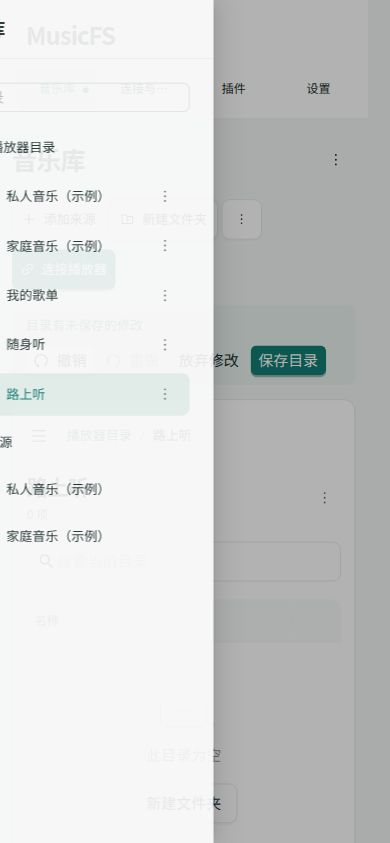
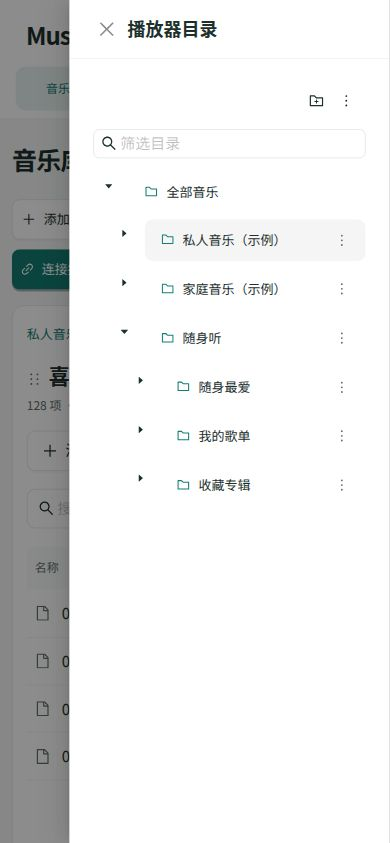
docs: describe split pane interactions and pointer verification

diff --git a/docs/architecture/web-ui.md b/docs/architecture/web-ui.md
@@ -12,9 +12,9 @@ Design Read：保留视觉体系、重构信息架构；视觉变化 3、动效 
 
 | 方向 | 收益与代价 | 决定 |
 |---|---|---|
-| 浏览与整理分成两个页面或模式 | 复用旧代码容易，但同一目录要切换界面才能编辑，操作与内容分离 | 不采用 |
-| 只保留播放器目录树，将来源设置挂在目录上 | 表面最少，但无法管理未导出的来源，也容易混淆移除入口与删除账号 | 不采用 |
-| 同一棵树随时浏览和编辑 | 目录直接改名、拖动和移除，右侧持续显示内容；来源与导出布局仍各有身份 | 采用 |
+| 来源与播放器目录放在同一窄树，右侧浏览 | 紧凑，但来源与目标常不在同一屏，跨区添加要选目标 | 改为分栏 |
+| 两个完整文件浏览器并排 | 路径直观，但重复表格、搜索和刷新，挤占歌曲列表 | 不采用 |
+| 来源导航—内容列表—播放器目录 | 来源与目标同时可见，直接拖入，保留一个内容浏览器；按窗口宽度收起导航 | 采用 |
 
 参考 [VS Code](https://code.visualstudio.com/docs/editing/getting-started/userinterface) 的左侧资源树与主内容分工、[DBeaver](https://github.com/dbeaver/dbeaver/wiki/database-navigator) 的连接/子对象层级，以及 [Nextcloud](https://docs.nextcloud.com/server/stable/user_manual/en/files/access_webgui.html) 的内容列表与详情侧栏。借鉴其交互分工，不复制命令面板、多编辑器、版本历史等与 MusicFS 当前任务无关的能力。
 
@@ -22,21 +22,14 @@ Design Read：保留视觉体系、重构信息架构；视觉变化 3、动效 
 
 ```mermaid
 flowchart LR
-  A[添加音乐来源] --> B{已有插件?}
-  B -->|没有| C[选择 ZIP 或下载链接]
-  C --> D[自动读取信息并安装]
-  D --> E[添加来源]
-  B -->|有| E
-  E --> F{需要登录?}
-  F -->|需要| G[直接显示登录步骤]
-  G --> H[浏览内容]
-  F -->|不需要| H
-  H --> I[音乐库：树定位 / 主区浏览]
-  I --> J[挂载到电脑]
-  I --> K[复制 WebDAV 连接]
-  I --> L[原位改名 / 移动 / 添加内容]
-  L --> M[继续浏览并保存目录]
-  M --> I
+  A[添加来源 / 登录] --> S
+  subgraph W[同一音乐工作区]
+    S[来源导航] -->|浏览| B[内容列表]
+    S -->|单入口拖入| L[播放器目录]
+    B -->|多选拖入| L
+    L -->|选择目录| B
+  end
+  L -->|保存| P[播放器 / WebDAV / 挂载]
 ```
 
 | 页面 | 默认呈现 | 按需操作 |
@@ -48,11 +41,13 @@ flowchart LR
 
 新增来源使用侧栏，创建后进入插件登录或来源节点。只有一个插件时自动选择；显示名称直接填写且有默认值，插件表单仍由其 Schema 决定。
 
-树中“播放器目录”对应对外路径，“音乐来源”对应完整来源内容。来源不在导出布局中也可浏览；展开只读取当前层，歌曲留在主列表，不把数千文件塞进树。树与主区使用同一 Query key；普通浏览不逐入口查询统计，也不读取音频属性。URL 与浏览器历史保存当前位置，前进、后退和重载可回到目录；旧 `?page=sources` 仍进入音乐库。
+宽窗口中左栏为音乐来源导航，中栏浏览当前内容，右栏排列播放器目录。来源不在导出布局中也可浏览。两条分隔线可拖动；每栏独立滚动，栏宽按宽窗口/中等窗口分别保存在当前浏览器。中等窗口保留内容与播放器目录，来源通过按钮打开；窄屏只保留内容，以「来源」「播放器目录」抽屉操作。改变分栏时内容浏览器保持挂载，勾选与搜索不重置；收起的树不继续查询。
 
-浏览和整理使用同一棵树及同一个主列表，不设整理页面或编辑模式。新建后在树上输入名称；树与主列表共用目录菜单，提供改名、移动、排序和移除。来源根目录的主列表可直接多选入口，添加时只选择目标文件夹；单个来源入口也可直接添加。来源的内部目录和歌曲保持只读，不伪装成可编辑导出节点。
+来源入口可从来源树、入口标题或主列表拖进播放器文件夹；列表勾选多项后拖动其中一项，一次加入所选入口。布局节点在同一区域拖动移动；文件夹中部表示移入，上下边缘表示排序，分别显示目标高亮或插入线。拖拽预览区分「添加」和「移动」，按钮与显式移动菜单保留相同操作。只为插件公开的来源入口提供添加能力，内部目录与歌曲保持只读。
 
-有修改时显示保存、撤销、重做和放弃操作；未保存草稿在主页面切换时保留，保存后才改变播放器目录。保存保持当前浏览位置，移除当前节点则回到上级。窄屏将同一棵树放入抽屉，新建和改名时直接展示对应输入，不再切换两种整理面板。主列表每页50项；名称筛选只处理当前目录，不发送额外请求。
+新建文件夹在播放器栏标题中，立即原位输入名称；编辑排列时保留来源列表和勾选，拖入后展开目标。拖动、改名只展开必要的父文件夹，不顺带请求整个来源内容。树与主列表共用改名、移动、排序及移除命令，不设单独整理页。出现修改后提供保存、撤销、重做与放弃；保存后才改变播放器目录，并保持浏览位置。跨主页面保留草稿。
+
+展开只读取当前层，歌曲留在主列表，不把数千文件塞进树。树与主区共享 Query key，普通浏览不逐入口查询统计或读取音频属性；主列表每页50项，名称筛选只在当前目录处理。URL 与浏览器历史保存当前位置，前进、后退、重载可回到目录，旧 `?page=sources` 仍进入音乐库。
 
 来源/目录“设置”共用一个侧栏，页签为来源设置、自动更新和文件命名。字段和预览内容与外层呈现分离；同一份规则表单也用于设置页。侧栏不遮罩整个工作区，选择另一目录时关闭旧上下文；新增来源和扫码登录保留聚焦窗口，移除来源只保留一次确认。命名未变化的条目只显示一次，缺字段以预览说明呈现，不额外加警告块。
 
@@ -68,7 +63,7 @@ Windows 挂载可留空位置，复用既有自动盘符能力；其他系统填
 flowchart LR
   A[来源入口快照] --> B[核心生成当前默认目录]
   B --> C[浏览器草稿]
-  D[多选来源入口] --> C
+  D[来源树 / 多选内容列表] -->|拖入目标文件夹| C
   C --> E[原位改名 / 移动 / 排序 / 移除]
   E --> C
   C --> F[撤销 / 重做]
@@ -92,14 +87,17 @@ flowchart LR
 
 - `shell.tsx` 管浏览器会话、四个主入口、退出与跨页面布局草稿；`workspace-navigation.ts` 保留页面 URL 和浏览器前进后退。
 - `music-workspace.tsx` 装配树、主区和上下文操作；`music-navigation.ts` 管节点/来源定位、面包屑与浏览历史；`music-listing.ts` 解析草稿节点并共享来源查询，虚拟文件夹不发送目录请求。
-- `music-tree.tsx` 管展开、筛选及拖放；`music-browser.tsx` 管主列表、批量选择与刷新。两处复用同一份目录操作。
+- `music-tree.tsx` 共用树的展开与筛选，分别呈现来源和播放器目录；`music-browser.tsx` 管主列表、批量选择与刷新。两处复用同一份目录操作。
+- `music-panes.tsx` 负责受控分栏、宽度记忆与响应式布局，不拥有音乐草稿；`music-drag.tsx` 将来源添加和布局移动映射到同一拖拽机制，树操作规则仍在 `layout-draft.ts`。
 - `music-inspector.tsx` 拥有设置侧栏；`source-editor.tsx`、`update-rule-editor.tsx`、`file-naming.tsx` 各管对应表单与数据。`authentication.tsx` 保留通用登录状态机。
-- `use-library-layout.ts` 管草稿、撤销/重做和保存；`use-layout-actions.tsx` 共用编辑命令；`music-layout-controls.tsx` 只负责原位改名与目标选择；`layout-draft.ts` 保存纯树操作。原独立编辑页、第二棵编辑树和内容选择面板已移除。
+- `use-library-layout.ts` 管草稿、撤销/重做和保存；`use-layout-actions.tsx` 共用编辑命令；`music-layout-controls.tsx` 只负责原位改名与目标选择；`layout-draft.ts` 保存纯树操作。原独立编辑页与重复内容选择面板已移除。
 - `plugins.tsx` 管理安装后的列表和后台变更；`plugin-installer.tsx` 管理包选择、检查和提交。
 - `connection.tsx` 区分挂载与 DAV；`dav-connection.tsx` 管理读取凭据与播放器导入二维码；`mounts.tsx` 管理挂载；`cache-settings.tsx` 复用缓存表单和统计展示；网络与 HTTPS 保留各自模块。
 - `settings.tsx` 管理账号和桌面偏好；`phone-access.tsx` 展示已启用的局域网地址与一次性二维码。
 
 TanStack Query 管理服务器状态，普通查询保留30秒新鲜期，显式变更失效相关查询；折叠后不再自动请求隐藏子树。后台快照继续采用原缓存期限；浏览器查询新鲜期不等于平台缓存期限。活动任务维持原轮询和串行推进。来源浏览新增浅目录管理接口，复用核心已发布视图与命名投影，不改变布局、插件协议、认证或挂载机制。RJSF 继续承载插件 Schema。
+
+分栏复用 Ant Design Splitter，避免另装尺寸控件。跨栏添加和布局移动统一使用 [Pragmatic drag and drop 元素适配器](https://atlassian.design/components/pragmatic-drag-and-drop/core-package/adapters/element/about)，它负责原生拖拽、预览与目标生命周期；MusicFS 只决定添加/移动身份、允许落点和树变更。替换 Tree 内建拖拽，避免跨栏添加与目录移动使用不同的落点规则；不引入另一套树组件或手写全局鼠标循环。
 
 桌面入口与手机二维码经 URL fragment 传入一次性 ticket，兑换 HttpOnly Cookie 后清除链接片段；旧令牌入口可换取同一会话。退出保留访问状态查询的观察者，清理其余工作区缓存，再重新查询登录入口。账号与会话均由后台保存，前端不另建长期凭据库。完整流程见[管理访问](management-access.md)。
 

diff --git a/docs/verification/music-workspace.md b/docs/verification/music-workspace.md
@@ -1,31 +1,34 @@
-# 音乐库统一工作区核对
+# 音乐库分栏工作区核对
 
-2026-10-23，`0.1.0-dev.25` 源码预览。浏览与目录编辑使用同一棵树、同一个主列表；设计与模块分工见[共用管理界面](../architecture/web-ui.md)。已发布的 dev.24 归档保持原样。
+2026-10-23，`0.1.0-dev.25` 源码预览。浏览、添加和目录排列在同一个分栏工作区完成；现行设计见[共用管理界面](../architecture/web-ui.md)。已发布的 dev.24 归档保持原样。
 
 ## 内置浏览器
 
-WSL 本地服务 `http://127.0.0.1:8787/`，使用独立 SQLite 演示数据：两个明确标为示例的来源、入口与嵌套目录，以及128个演示文件。使用实际管理接口和库视图，不连接真实音乐平台或读取音频。
+WSL 本地服务 `http://127.0.0.1:8787/`，独立 SQLite 演示数据包含两个明确标为示例的来源、入口与嵌套目录，以及128个演示文件。使用实际管理接口和库视图，不连接真实音乐平台或读取音频。
 
 | 用户路径 | 结果 |
 |---|---|
-| 来源树 → 喜欢的音乐 | 主区直接显示文件，歌曲不展开到树中 |
-| 来源根目录多选 → 添加 | 原列表勾选两项，通过目标文件夹选择添加到草稿；取消添加保留勾选 |
-| 未保存入口 → 浏览 → 改名 | 128个文件保持可见，标题随改名更新，无需先保存 |
-| 新建文件夹 → 移动入口 | 原位改名后用节点菜单移动，面包屑随目录变化，歌曲继续可见 |
-| 保存 → 重载 | 保持同一目录及其新位置，不返回根目录 |
-| 新建、改名、连续撤销与重做 | 两次撤销回到原布局，保存恢复禁用；重做和放弃修改正常 |
-| 来源/目录设置 | 同一侧栏提供来源设置、自动更新、文件命名；当前目录的范围正确 |
-| 约390px窄屏 | 新建时打开同一棵树并进入改名；关闭抽屉后可连续撤销，无横向页面溢出 |
+| 分隔线拖动 → 重载 | 实际改变来源/内容栏宽，重载后保留调整值 |
+| 单入口标题、来源树 → 播放器文件夹 | 原生指针拖放添加成功，来源浏览位置保持 |
+| 主列表多选两项 → 拖入目标 | 两项一次加入，一次撤销；原列表及勾选保持 |
+| 多选 → 新建目标并改名 → 拖入 | 原位创建目标不清掉来源列表或勾选 |
+| 布局入口 → 文件夹中部 | 移入文件夹；保存后打开该文件夹核实其直接子项 |
+| 布局入口 → 上边缘 | 目录顺序立即改变，主列表同步，撤销恢复 |
+| 来源内容与设置 | 128项清单、搜索与上下文设置继续共用原查询和表单 |
+| 三栏 → 两栏 → 单栏 | 内容浏览器保持挂载，已有勾选和搜索保留 |
+| 约390px窄屏 | 来源、播放器目录抽屉可用；目录栏可新建改名，再通过添加按钮放入内容；关闭后来源选择保持，无横向页面溢出 |
 
-改名的 Enter 与失焦原先可能重复提交，现合并为一次结束操作。输入框聚焦事件不再冒泡到尚在挂载的树；窄屏新建、改名、关闭和连续撤销重走后没有新增控制台错误。树抽屉仍由 Drawer 管理卸载。临时视口已恢复，预览停留在正常工作区。
+拖拽使用真实指针操作，未用脚本派发拖拽事件。分栏和目录拖拽分别验证；未将拖动分隔线当作拖拽内容的证据。目录移动由原生 Tree 的默认落点改为统一的“文件夹中部移入、边缘排序”，跨栏添加与布局移动复用同一拖拽模块。
 
-截图：[工作区](images/music-workspace-desktop.jpg)、[上下文设置](images/music-workspace-inspector.jpg)、[窄屏原位编辑](images/music-workspace-mobile.jpg)。
+列表高度随内容栏伸缩，各栏独立滚动，分页保持可达。拖拽和改名只展开必要父目录，不因显示移动结果去扫描该来源的歌曲。抽屉仍统一管理卸载；完成退出后检查后续操作，未出现新的控制台错误。已恢复正常窗口尺寸。
+
+截图：[三栏](images/music-workspace-desktop.jpg)、[两栏](images/music-workspace-compact.jpg)、[上下文设置](images/music-workspace-inspector.jpg)、[窄屏目录](images/music-workspace-mobile.jpg)。
 
 ## 离线与构建
 
-- `library.test.ts`、`layout-draft.test.ts`、`music-workspace.test.ts` 共32项通过，259个断言。
-- 新增回归覆盖自动目录身份稳定、草稿分组无需目录请求、嵌套内容在改名和移动后仍按同一来源引用定位、来源与别名共享快照而分别生成面包屑、缺失入口不会误读账号根目录。
-- 三套 TypeScript、正式 WebUI 构建与模块边界检查通过；299模块、1260依赖无违规。
-- 受影响的 HTTP 来源浏览旅程已在本版前一提交验证，接口合同未在此次调整中改变。
+- 本轮 `layout-draft.test.ts`、`music-workspace.test.ts` 共8项通过、29个断言，覆盖移动身份、批量顺序、树约束及草稿导航/查询语义。
+- 同版前一阶段的32项库/布局/导航回归继续作为底层证据；本轮未修改库、插件或管理接口合同。
+- 三套 TypeScript、正式 WebUI 构建与模块边界检查通过；301模块、1266依赖无违规。
+- 新增浏览器依赖为 Pragmatic drag and drop 4.0.0，尺寸控件直接复用现有 Ant Design Splitter；生产构建已生成对应第三方许可。
 
-本轮验证集中在目录草稿、来源查询与实际页面操作，没有重复平台、Windows虚拟机、Cloudflare或压力测试。
+本轮未重复音乐平台、Windows虚拟机、Cloudflare或压力测试。

diff --git a/docs/user-guide.md b/docs/user-guide.md
@@ -29,18 +29,18 @@
 
 ## 浏览和整理音乐
 
-「音乐库」左侧树集中显示来源与播放器目录，右侧直接浏览选中内容。来源尚未加入播放器目录时也能浏览。首次打开的内容按需加载；需要准备文件信息的来源会给出「准备文件」入口。窄屏点击目录图标打开树。
+「音乐库」按来源、内容、播放器目录分栏。点击来源或目录查看内容；来源尚未加入播放器目录时也能浏览。拖动分隔线可调整栏宽，页面会记住它。窗口较窄时，点击顶部「来源」或「播放器目录」打开对应导航。
 
-主列表可按名称搜索，结果保留原顺序。目录导航和浏览器前进、后退都可返回之前的位置，重新载入页面也会保留当前目录。
+主列表可按名称搜索。首次打开的内容按需加载，需要准备文件信息时会显示「准备文件」。浏览器前进、后退和重载可回到当前目录；调整窗口大小也会保留勾选和搜索。
 
-想换一种排列方式，直接在这个工作区操作：
+想换一种排列方式，直接在工作区操作：
 
-- 点击「新建文件夹」，在树上输入名称。双击目录名称，或从目录的更多菜单重命名。
-- 浏览「音乐来源」时，勾选喜欢的音乐、歌单等入口，点击「添加到」，选择播放器目录中的位置。打开单个入口后，也可直接添加。
-- 在「播放器目录」中拖动排序或移入文件夹，也可用更多菜单的「移动到」「上移」「下移」。「移除」只拿掉这个目录入口。
-- 修改后出现保存栏，可撤销、重做或放弃。点击「保存目录」，让播放器看到新布局；保存前后都能继续浏览当前音乐。
+- 把来源入口从树、标题或列表拖进播放器目录的文件夹。多选后拖动其中一项，可一次加入多项；也可以点击「添加到…」选择位置。
+- 点击播放器目录标题旁的新建文件夹图标，输入名称。双击目录名称，或从更多菜单重命名。
+- 拖到文件夹中部会移入，靠上、下边缘会排序。也可用菜单的「移动到」「上移」「下移」；「移除」拿掉该目录入口。
+- 修改后出现保存栏，可撤销、重做或放弃。点击「保存目录」，让播放器看到新布局；操作期间可继续浏览来源内容。
 
-切换页面会保留未保存的修改。在音乐库顶部的更多菜单中选择「恢复按来源自动排列」并保存，可回到默认目录。
+切换页面会保留未保存的修改。在「播放器目录」标题的更多菜单中选择「恢复按来源自动排列」并保存，可回到默认目录。手机上使用同样的添加按钮、目录菜单与保存栏。
 
 ## 在本地播放器中使用
 

diff --git a/outputs/musicfs-simplification-and-dependencies.md b/outputs/musicfs-simplification-and-dependencies.md
@@ -39,7 +39,7 @@
 | 用途 | 建议 | 替代的手写工作 | 仍需负责的内容 |
 |---|---|---|---|
 | 共用 HTTP | Hono；桌面使用 `Bun.serve` | 路由、中间件、Fetch 接入、静态资源响应 | 音乐与目录路由的业务处理 |
-| WebUI | React + Vite + Ant Design | 构建、弹窗、树和拖拽 | 插件/实例管理、布局语义；按实际缺口补充依赖 |
+| WebUI | React + Vite + Ant Design；Pragmatic drag and drop | 构建、弹窗、树、分栏及原生拖拽 | 插件/实例管理、布局语义和落点规则 |
 | 声明式插件配置 | `@rjsf/antd`、`@rjsf/core`、`@rjsf/validator-ajv8` | JSON Schema 表单和前端结构校验 | 可序列化提示、实例草稿与保存、认证步骤，核对 peerDependencies |
 | 插件后台结构校验 | 官方工具链优先作者构建时 Ajv standalone ESM，随插件发布 | 标准 Schema 校验代码生成与执行 | Schema 与结果一致、来源语义校验；第三方内部可选其他实现，Worker 不动态 compile |
 | 页面请求状态 | `@tanstack/react-query` | 认证轮询、部署进度、保存后失效、取消 | 生命周期与哪些操作影响目录 |
@@ -60,7 +60,7 @@
 
 Hono 同时支持 [Bun](https://hono.dev/docs/getting-started/bun) 与 [Worker](https://hono.dev/docs/getting-started/cloudflare-workers)，桌面无需 Node adapter。其路由可以承载自定义方法，但不因此自动实现 WebDAV。[路由文档](https://hono.dev/docs/api/routing)
 
-Ant Design [Tree](https://ant.design/components/tree/) 已有 draggable、onDrop、allowDrop、异步加载等能力。建议先选择内容源加入布局，再在一棵受控树内拖动；独立面板之间的拖入若确实采用，再验证少量接线，不预先叠加多套拖拽库。
+目录树展示继续使用 Ant Design Tree，尺寸调整使用已有 Splitter。来源跨栏添加和布局内部移动已统一为 Pragmatic drag and drop，替换 Tree 内建拖拽；两者共用目标高亮、边缘排序及预览。领域仍只维护一份草稿，不增加另一套树或拖拽引擎。现行呈现与取舍见[共用管理界面](../docs/architecture/web-ui.md)。
 
 组件库是否足够，以实际交互为准；缺口明显时采用合适依赖，不为了减少包数量而大量手写。Vite 统一生成前端静态产物，桌面收录这些文件，Worker 使用 Static Assets；不维护另一套 Bun 前端构建。
 

diff --git a/docs/engineering-lessons.md b/docs/engineering-lessons.md
@@ -11,7 +11,7 @@
 - **资料存在、标签写入与播放器展示分开。** 来源缺失字段不猜测，已有歌词时间轴、译文和罗马音保留；不为补标签转码或跨平台搜配。成功内嵌不证明播放器会显示多位歌手或逐行歌词，兼容结论须对应实际字段和消费者。
 - **凭据就绪与资料齐全分开。** 有效授权不应因昵称等补充资料暂时失败而卡在二维码过期状态；后续需要资料时再补齐。SDK 能轮换凭据，也不代表宿主已经保存轮换结果。
 - **用户模板属于展示策略。** 插件可选提供命名事实，模板和同名分配共用于预览与实际路径；策略不进入内容配置或音频身份。同名身份也要脱离整歌单位置，否则只去掉可见序号仍会在无关插入时改名。
-- **合并界面入口不合并领域身份。** 来源引用与播放器路径可以在同一树形工作区呈现，但未导出的来源仍须可浏览，移除入口与删除来源仍是不同操作。草稿按稳定节点身份定位内容，未保存的改名、移动不依赖未发布路径。共用已发布视图和查询缓存，导航上下文由观察者生成，不写入共享快照。
+- **合并界面入口不合并领域身份。** 来源引用与播放器路径可以在同一树形工作区呈现，但未导出的来源仍须可浏览，移除入口与删除来源仍是不同操作。草稿按稳定节点身份定位内容，未保存的改名、移动不依赖未发布路径。分栏拖拽只展开必要父目录，排列不顺带扫描来源；调整分栏保留主内容组件及选择状态。共用已发布视图和查询缓存，导航上下文由观察者生成，不写入共享快照。
 
 ## 性能：减少必要路径上的工作
 

diff --git a/docs/verification.md b/docs/verification.md
@@ -4,7 +4,7 @@
 
 ## 当前事实
 
-当前源码为 dev.25 音乐库树形工作区：浏览与编辑合并到同一棵树和主列表，来源内容可批量添加，未保存的改名和移动仍能浏览。32项定向离线用例、类型/构建/依赖边界及内置浏览器路径核对通过，见[工作区记录](verification/music-workspace.md)。本轮未重打发行包；现有最新归档 dev.24 修正规则重复范围与编辑体验，见[发行页](release.md)。
+当前源码为 dev.25 分栏音乐库：来源导航、内容列表与播放器目录同屏，通过统一拖拽添加、移动和排序，支持栏宽记忆与响应式布局。本轮8项目录/导航用例、类型/构建/依赖边界及真实指针拖放核对通过；同版前阶段32项底层用例保留原证据，见[工作区记录](verification/music-workspace.md)。本轮未重打发行包；现有最新归档 dev.24，见[发行页](release.md)。
 
 dev.23完成自动更新规则与自定义命名模板：SQLite/D1共用调度与展示语义，schema13迁移旧周期、schema14保存独立命名策略，API0.1.11为插件提供可选命名资料。受影响离线回归、三套类型、依赖方向及页面/Worker/插件构建通过；具体结果及范围见[本轮核对](verification/updates-and-naming.md)。Windows、离线Worker、源码与作者包已归档并通过身份/摘要核对，下载入口见[发行页](release.md)；没有新增真实平台或Windows运行证据。
 

diff --git a/README.md b/README.md
@@ -18,7 +18,7 @@ MusicFS 把不同音乐来源的歌单和歌曲整理成只读文件夹。你可
 1. **打开 MusicFS。** 下载并解压对应系统的完整桌面包，Windows 打开 `MusicFS.exe`，Linux 运行 `musicfs`，管理页面会在浏览器中打开。
 2. **添加音乐来源。** 在「音乐库」点击「添加来源」，按提示安装随包 `plugins/` 目录中的网易云音乐或 QQ 音乐 ZIP。
 3. **连接自己的账号。** 添加来源、选择音质，接着完成扫码登录。
-4. **看看自己的音乐。** 在「音乐库」左侧树选择来源或歌单，右侧直接浏览；新建、改名、移动目录也在这里完成。
+4. **看看自己的音乐。** 在「音乐库」选择来源或歌单，直接浏览；把内容拖进播放器目录，排成自己习惯的样子。
 5. **接上播放器。** 在「连接与挂载」挂载到电脑，或复制 WebDAV 地址、用户名和密码。
 
 Windows 首次挂载时，可按页面提示安装 WinFsp；Linux 挂载需要 FUSE。
